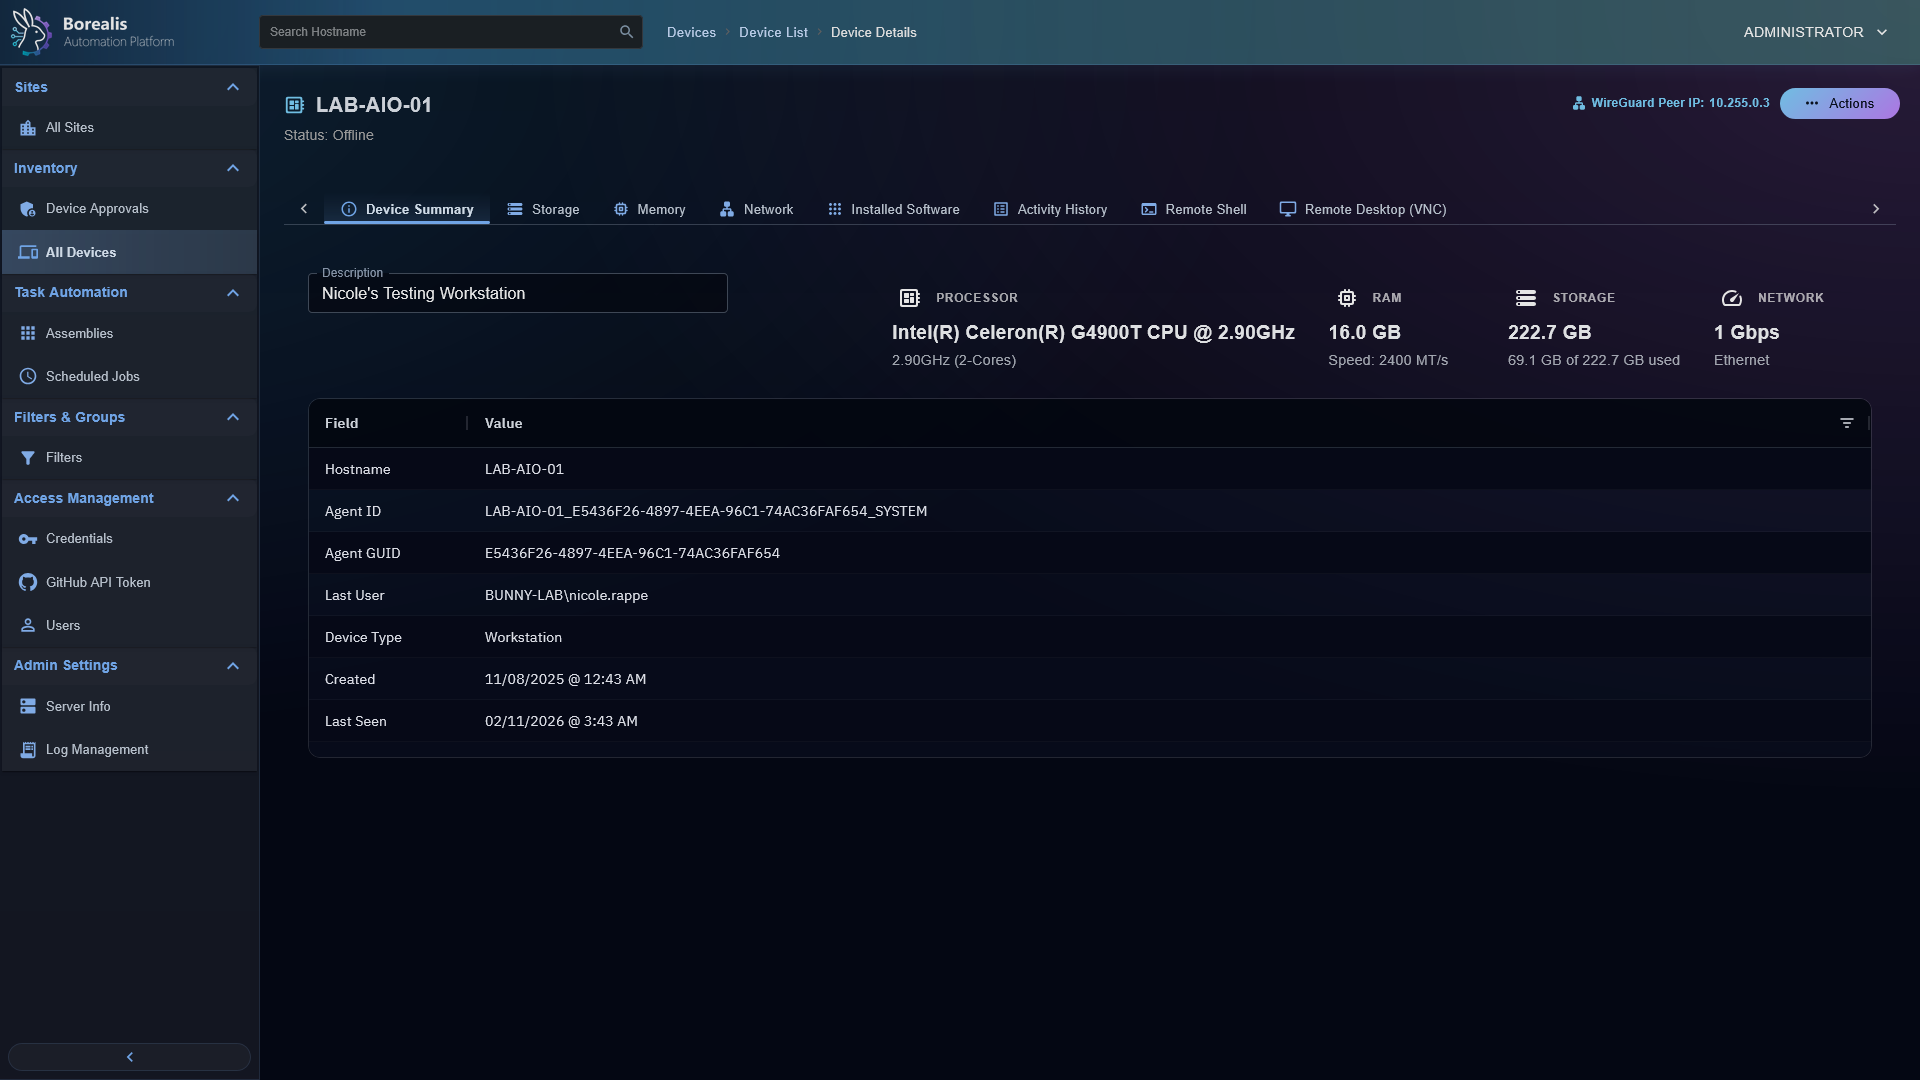
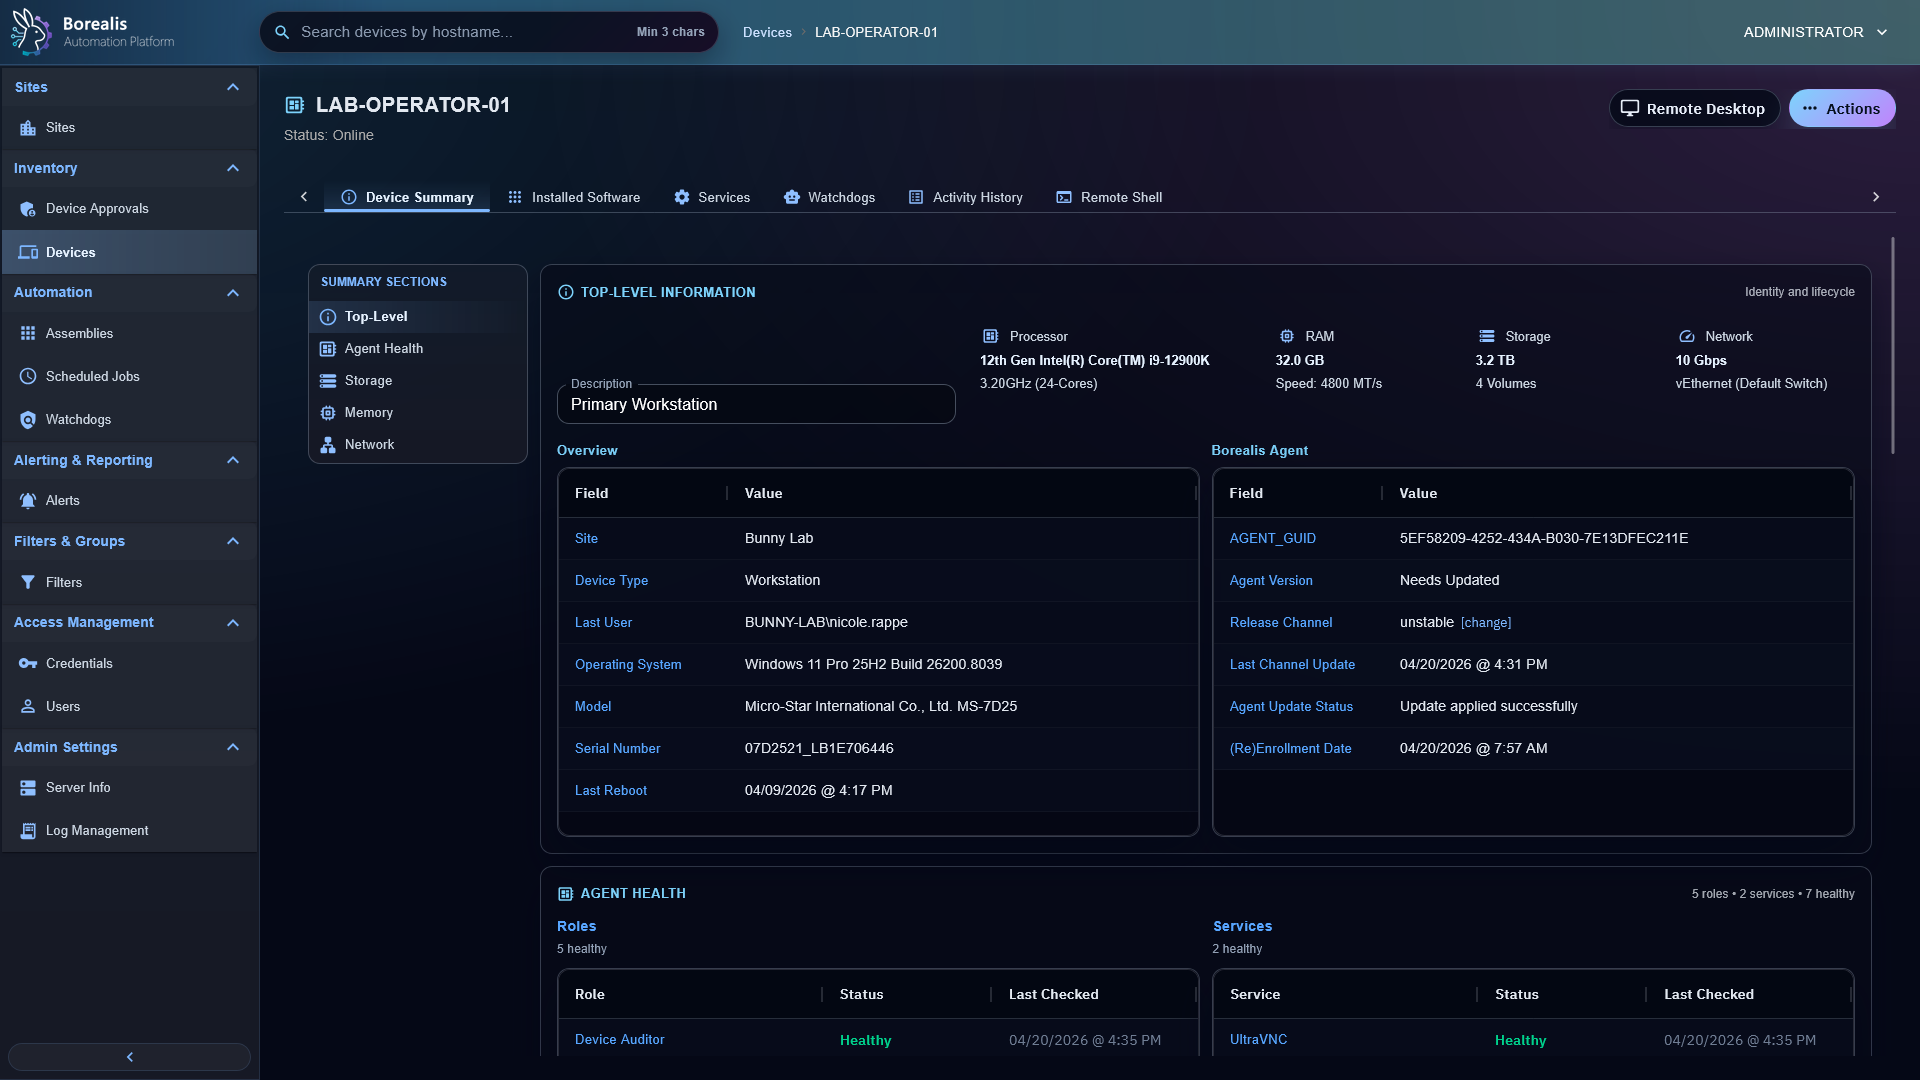
Updated Screenshot

diff --git a/Docs/website/index.html b/Docs/website/index.html
@@ -245,13 +245,15 @@
     .hero-copy {
       display: grid;
       gap: 8px;
-      max-width: 108ch;
+      width: 100%;
+      max-width: 100%;
     }
 
     .hero-screenshots {
       display: grid;
       gap: 10px;
-      max-width: 1024px;
+      width: 100%;
+      max-width: 100%;
     }
 
     .carousel-head {
@@ -583,6 +585,7 @@
     .content-tabs {
       display: grid;
       gap: 12px;
+      width: 100%;
     }
 
     .bo-tab-row {
@@ -807,12 +810,14 @@
       color: var(--text-muted);
       font-size: 0.9rem;
       line-height: 1.6;
-      max-width: 108ch;
+      width: 100%;
+      max-width: 100%;
     }
 
     .bootstrap-shell {
       display: grid;
       gap: 7px;
+      width: 100%;
     }
 
     .bootstrap-shell strong {
